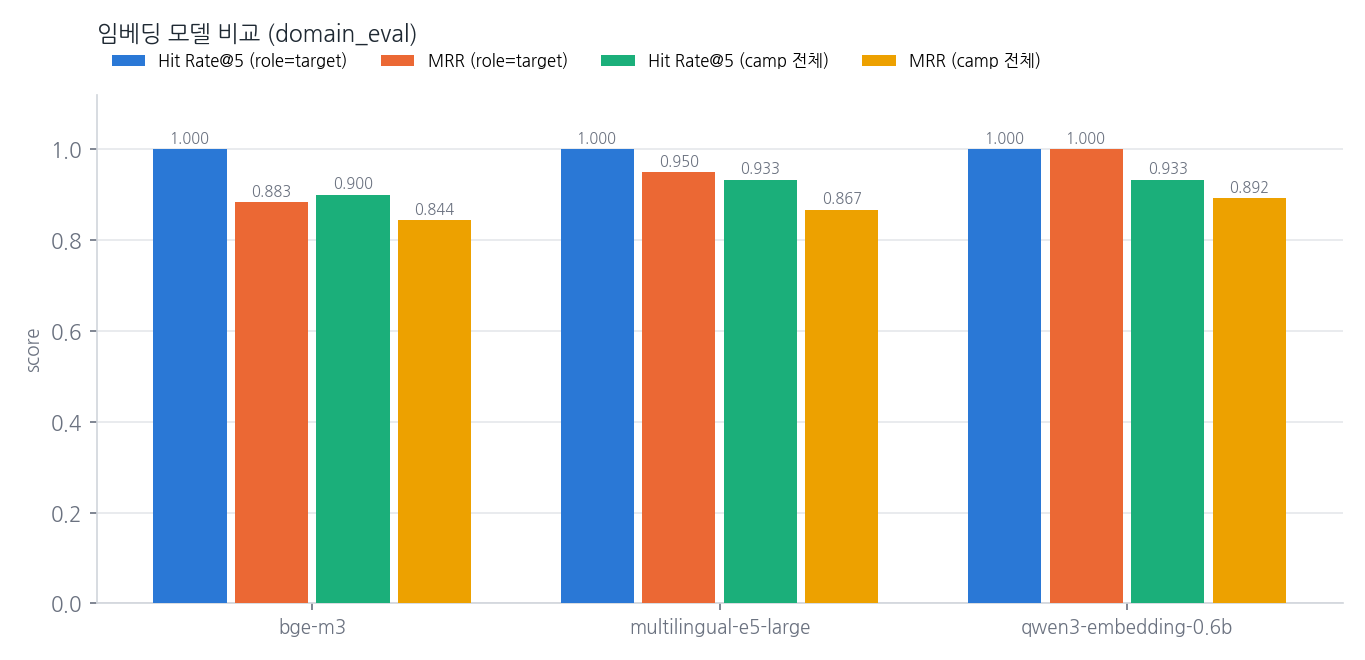
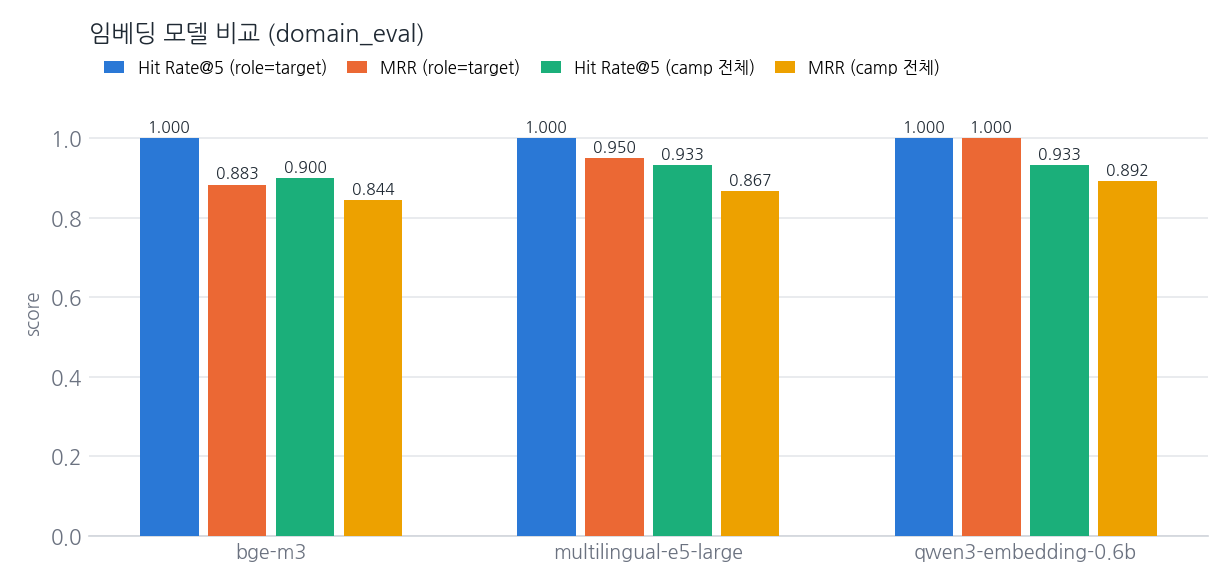
style : 조건 비교 그래프를 막대로 통일하고 색·크기 정리
- 청킹·리라이팅 slope 선형은 되돌려 막대로 통일(plot_condition_comparison 제거)
- plot_bar_comparison: 고정 순서 4색, 값 라벨, 막대 여백, 왼쪽 축선 제거,
  범례를 제목 아래 한 줄로, 크기 6.4x3.9 기준으로 조건·지표 수에 따라 확장
- 리포트 표 기준으로 PNG 재생성(점수·본문 변경 없음)

diff --git a/src/common/eval_utils.py b/src/common/eval_utils.py
@@ -131,95 +131,18 @@ _STATUS_BAD = "#d03b3b"
 _INK = "#1f2933"
 _INK_MUTED = "#6b7280"
 
-# 같은 지표를 여러 조건에서 비교하는 그래프 두 종류.
-# - plot_condition_comparison: 전/후처럼 조건이 2개(또는 순서가 있는 소수)일 때 지표별 점·선
-#   (slope chart). 조건 간 변화 방향과 폭이 한눈에 읽힘.
-# - plot_bar_comparison: 임베딩 후보처럼 조건이 명목형(순서 없음)이면 선이 "순서"를 암시하므로
-#   막대를 유지함. 값 라벨을 붙여 좁은 차이도 읽히게 함.
+# 같은 지표를 여러 조건(청킹 버전, 임베딩 후보, 리라이팅 전/후, 기술)에서 비교하는 막대그래프.
 # 색은 고정 순서(파랑, 주황, 청록, 노랑)로 색각 이상 분리 검증을 통과한 조합이고, 청록·노랑은
-# 배경 대비가 낮아 값 라벨과 직접 표기를 항상 함께 둠.
+# 배경 대비가 낮아 값 라벨을 항상 함께 둠. 막대 사이 여백과 옅은 가로 격자만 두고 테두리는 뺌.
 _SERIES_COLORS = ["#2a78d6", "#eb6834", "#1baf7a", "#eda100", "#e87ba4", "#008300"]
 
 
 def _style_axes(ax) -> None:
-    ax.grid(axis="y", color="#e5e7eb", linewidth=0.8)
-    for side in ("top", "right"):
+    ax.grid(axis="y", color="#e5e7eb", linewidth=0.8, zorder=0)
+    for side in ("top", "right", "left"):
         ax.spines[side].set_visible(False)
-    for side in ("left", "bottom"):
-        ax.spines[side].set_color("#d1d5db")
-    ax.tick_params(colors=_INK_MUTED)
-
-
-def _spread(values: list[float], min_gap: float) -> list[float]:
-    """같은 x에서 겹치는 라벨 y좌표를 위아래로 밀어 최소 간격을 확보함(순서 유지)."""
-    order = sorted(range(len(values)), key=lambda i: values[i])
-    placed = []
-    for i in order:
-        y = values[i]
-        if placed and y - placed[-1][1] < min_gap:
-            y = placed[-1][1] + min_gap
-        placed.append((i, y))
-    out = [0.0] * len(values)
-    for i, y in placed:
-        out[i] = y
-    return out
-
-
-def plot_condition_comparison(
-    conditions: list[str],
-    series: dict[str, list[float]],
-    title: str,
-    ylabel: str,
-    save_path: Path,
-    ylim: tuple[float, float] | None = None,
-) -> None:
-    """조건(x) x 지표(선) 비교 그래프. series[지표명] = 조건 순서대로의 값.
-
-    전/후 비교(조건 2개)용 slope chart. 지표마다 고정 순서의 색, 마지막 조건 옆 직접 표기,
-    점마다 값 라벨. 같은 값이 겹치면 라벨을 위아래로 벌리고, 같은 x·같은 값의 수치 라벨은
-    한 번만 적음.
-    """
-    save_path.parent.mkdir(parents=True, exist_ok=True)
-    n_cond = len(conditions)
-    fig, ax = plt.subplots(figsize=(max(9.0, 1.9 * n_cond + 4.6), 4.4))
-    xs = list(range(n_cond))
-    all_vals = [v for vals in series.values() for v in vals]
-    if ylim is None:
-        lo, hi = (min(all_vals), max(all_vals)) if all_vals else (0.0, 1.0)
-        pad = max((hi - lo) * 0.25, 0.05)
-        ylim = (max(0.0, lo - pad), hi + pad)
-    names = list(series)
-    for i, name in enumerate(names):
-        color = _SERIES_COLORS[i % len(_SERIES_COLORS)]
-        ax.plot(xs, series[name], color=color, linewidth=2, marker="o", markersize=7,
-                markeredgecolor="white", markeredgewidth=1.5, label=name, zorder=3)
-    # 값 라벨: 같은 x에서 같은 값은 한 번만
-    for x in xs:
-        seen: set[float] = set()
-        for name in names:
-            v = round(series[name][x], 3)
-            if v in seen:
-                continue
-            seen.add(v)
-            ax.annotate(f"{v:.3f}", (x, v), textcoords="offset points", xytext=(0, 7),
-                        ha="center", fontsize=7.5, color=_INK_MUTED)
-    # 직접 표기: 끝점 y가 겹치면 벌림
-    ends = [series[n][-1] for n in names]
-    label_ys = _spread(ends, (ylim[1] - ylim[0]) * 0.07)
-    for i, (name, y) in enumerate(zip(names, label_ys)):
-        ax.text(xs[-1] + 0.08, y, name, va="center", fontsize=8,
-                color=_SERIES_COLORS[i % len(_SERIES_COLORS)])
-    ax.set_xticks(xs)
-    ax.set_xticklabels(conditions, fontsize=9)
-    ax.set_xlim(-0.35, n_cond - 1 + 2.1)
-    ax.set_ylim(*ylim)
-    ax.set_ylabel(ylabel, fontsize=9, color=_INK_MUTED)
-    ax.set_title(title, loc="left", fontsize=11, color=_INK, pad=26)
-    _style_axes(ax)
-    ax.legend(loc="lower left", bbox_to_anchor=(0, 1.02), ncol=len(names), fontsize=8, frameon=False)
-    fig.tight_layout()
-    fig.savefig(save_path, dpi=150)
-    plt.close(fig)
+    ax.spines["bottom"].set_color("#d1d5db")
+    ax.tick_params(colors=_INK_MUTED, length=0)
 
 
 def plot_bar_comparison(
@@ -230,32 +153,35 @@ def plot_bar_comparison(
     save_path: Path,
     ylim: tuple[float, float] | None = None,
 ) -> None:
-    """명목형 조건(x) x 지표(막대 색) 비교. 막대마다 값 라벨, 막대 사이 여백, 고정 순서 색."""
+    """조건(x) x 지표(막대 색) 비교. 막대마다 값 라벨, 막대 사이 여백, 고정 순서 색, 범례는 그림 위."""
     save_path.parent.mkdir(parents=True, exist_ok=True)
     n_series = max(len(series), 1)
-    width = 0.8 / n_series
-    fig, ax = plt.subplots(figsize=(max(6.0, 0.55 * len(labels) * n_series + 2.5), 4.4))
-    x = range(len(labels))
+    n_labels = max(len(labels), 1)
+    group_w = 0.72
+    width = group_w / n_series
+    fig, ax = plt.subplots(figsize=(max(6.4, 0.5 * n_labels * n_series + 2.2), 3.9))
+    x = range(n_labels)
     all_vals = [v for vals in series.values() for v in vals]
     integral = all(float(v).is_integer() for v in all_vals)
     fmt = (lambda v: f"{int(v)}") if integral else (lambda v: f"{v:.3f}")
     for i, (name, values) in enumerate(series.items()):
-        offsets = [xi + i * width for xi in x]
+        offsets = [xi - group_w / 2 + width * (i + 0.5) for xi in x]
         color = _SERIES_COLORS[i % len(_SERIES_COLORS)]
-        ax.bar(offsets, values, width=width * 0.9, label=name, color=color, zorder=3)
+        ax.bar(offsets, values, width=width * 0.86, label=name, color=color, zorder=3, linewidth=0)
         for xo, v in zip(offsets, values):
             ax.annotate(fmt(v), (xo, v), textcoords="offset points", xytext=(0, 3),
-                        ha="center", fontsize=7, color=_INK_MUTED)
-    ax.set_xticks([xi + width * (n_series - 1) / 2 for xi in x])
-    ax.set_xticklabels(labels, fontsize=9)
+                        ha="center", fontsize=7.5, color=_INK)
+    ax.set_xticks(list(x))
+    ax.set_xticklabels(labels, fontsize=9.5, color=_INK)
     if ylim is None:
-        top = max((v for vals in series.values() for v in vals), default=1.0)
+        top = max(all_vals, default=1.0)
         ylim = (0, top * 1.12)
     ax.set_ylim(*ylim)
     ax.set_ylabel(ylabel, fontsize=9, color=_INK_MUTED)
-    ax.set_title(title, loc="left", fontsize=11, color=_INK, pad=26)
+    ax.set_title(title, loc="left", fontsize=11.5, color=_INK, pad=24)
     _style_axes(ax)
-    ax.legend(loc="lower left", bbox_to_anchor=(0, 1.02), ncol=min(n_series, 4), fontsize=8, frameon=False)
+    ax.legend(loc="lower left", bbox_to_anchor=(0, 1.0), ncol=min(n_series, 4), fontsize=8,
+              frameon=False, handlelength=1.2, columnspacing=1.2)
     fig.tight_layout()
     fig.savefig(save_path, dpi=150)
     plt.close(fig)

diff --git a/scripts/domain_eval/test_runner.py b/scripts/domain_eval/test_runner.py
@@ -32,7 +32,6 @@ from src.common.eval_utils import (
     load_golden_dataset_all,
     mrr,
     plot_bar_comparison,
-    plot_condition_comparison,
 )
 from src.common.models import (
     get_embedding_model,
@@ -167,7 +166,7 @@ def run_chunking_comparison(goldens: list[GoldenQuery]):
     for label, naive in zip(labels, (False, True)):
         index = _get_or_build_index(embedding, naive, _index_dir(label.split("_")[0], ADOPTED_EMBEDDING))
         _score_both_filters(index, goldens, scores)
-    plot_condition_comparison(
+    plot_bar_comparison(
         labels, scores, f"청킹 전략 비교 ({AGENT_NAME})", "score",
         HERE / "report_assets" / "chunking_comparison.png",
     )
@@ -213,7 +212,7 @@ def run_query_rewriting_comparison(goldens: list[GoldenQuery]):
     scores = _empty_filter_scores()
     for use_rewrite in (False, True):
         _score_both_filters(index, goldens, scores, use_rewrite=use_rewrite)
-    plot_condition_comparison(
+    plot_bar_comparison(
         labels, scores, f"Query Rewriting 비교 ({AGENT_NAME})", "score",
         HERE / "report_assets" / "query_rewriting_comparison.png",
     )

diff --git a/scripts/tech_research/test_runner.py b/scripts/tech_research/test_runner.py
@@ -31,7 +31,6 @@ from src.common.eval_utils import (
     load_golden_dataset_all,
     mrr,
     plot_bar_comparison,
-    plot_condition_comparison,
 )
 from src.common.models import (
     get_embedding_model,
@@ -161,7 +160,7 @@ def run_chunking_comparison(goldens: list[GoldenQuery]):
     for label, naive in zip(labels, (False, True)):
         index = _get_or_build_index(embedding, naive, _index_dir(label.split("_")[0], ADOPTED_EMBEDDING))
         _score_both_filters(index, goldens, scores)
-    plot_condition_comparison(
+    plot_bar_comparison(
         labels, scores, f"청킹 전략 비교 ({AGENT_NAME})", "score",
         HERE / "report_assets" / "chunking_comparison.png",
     )
@@ -207,7 +206,7 @@ def run_query_rewriting_comparison(goldens: list[GoldenQuery]):
     scores = _empty_filter_scores()
     for use_rewrite in (False, True):
         _score_both_filters(index, goldens, scores, use_rewrite=use_rewrite)
-    plot_condition_comparison(
+    plot_bar_comparison(
         labels, scores, f"Query Rewriting 비교 ({AGENT_NAME})", "score",
         HERE / "report_assets" / "query_rewriting_comparison.png",
     )

diff --git a/scripts/trl_eval/test_runner.py b/scripts/trl_eval/test_runner.py
@@ -32,7 +32,6 @@ from src.common.eval_utils import (
     load_golden_dataset_all,
     mrr,
     plot_bar_comparison,
-    plot_condition_comparison,
 )
 from src.common.models import (
     get_embedding_model,
@@ -162,7 +161,7 @@ def run_chunking_comparison(goldens: list[GoldenQuery]):
     for label, naive in zip(labels, (False, True)):
         index = _get_or_build_index(embedding, naive, _index_dir(label.split("_")[0], ADOPTED_EMBEDDING))
         _score_both_filters(index, goldens, scores)
-    plot_condition_comparison(
+    plot_bar_comparison(
         labels, scores, f"청킹 전략 비교 ({AGENT_NAME})", "score",
         HERE / "report_assets" / "chunking_comparison.png",
     )
@@ -208,7 +207,7 @@ def run_query_rewriting_comparison(goldens: list[GoldenQuery]):
     scores = _empty_filter_scores()
     for use_rewrite in (False, True):
         _score_both_filters(index, goldens, scores, use_rewrite=use_rewrite)
-    plot_condition_comparison(
+    plot_bar_comparison(
         labels, scores, f"Query Rewriting 비교 ({AGENT_NAME})", "score",
         HERE / "report_assets" / "query_rewriting_comparison.png",
     )
